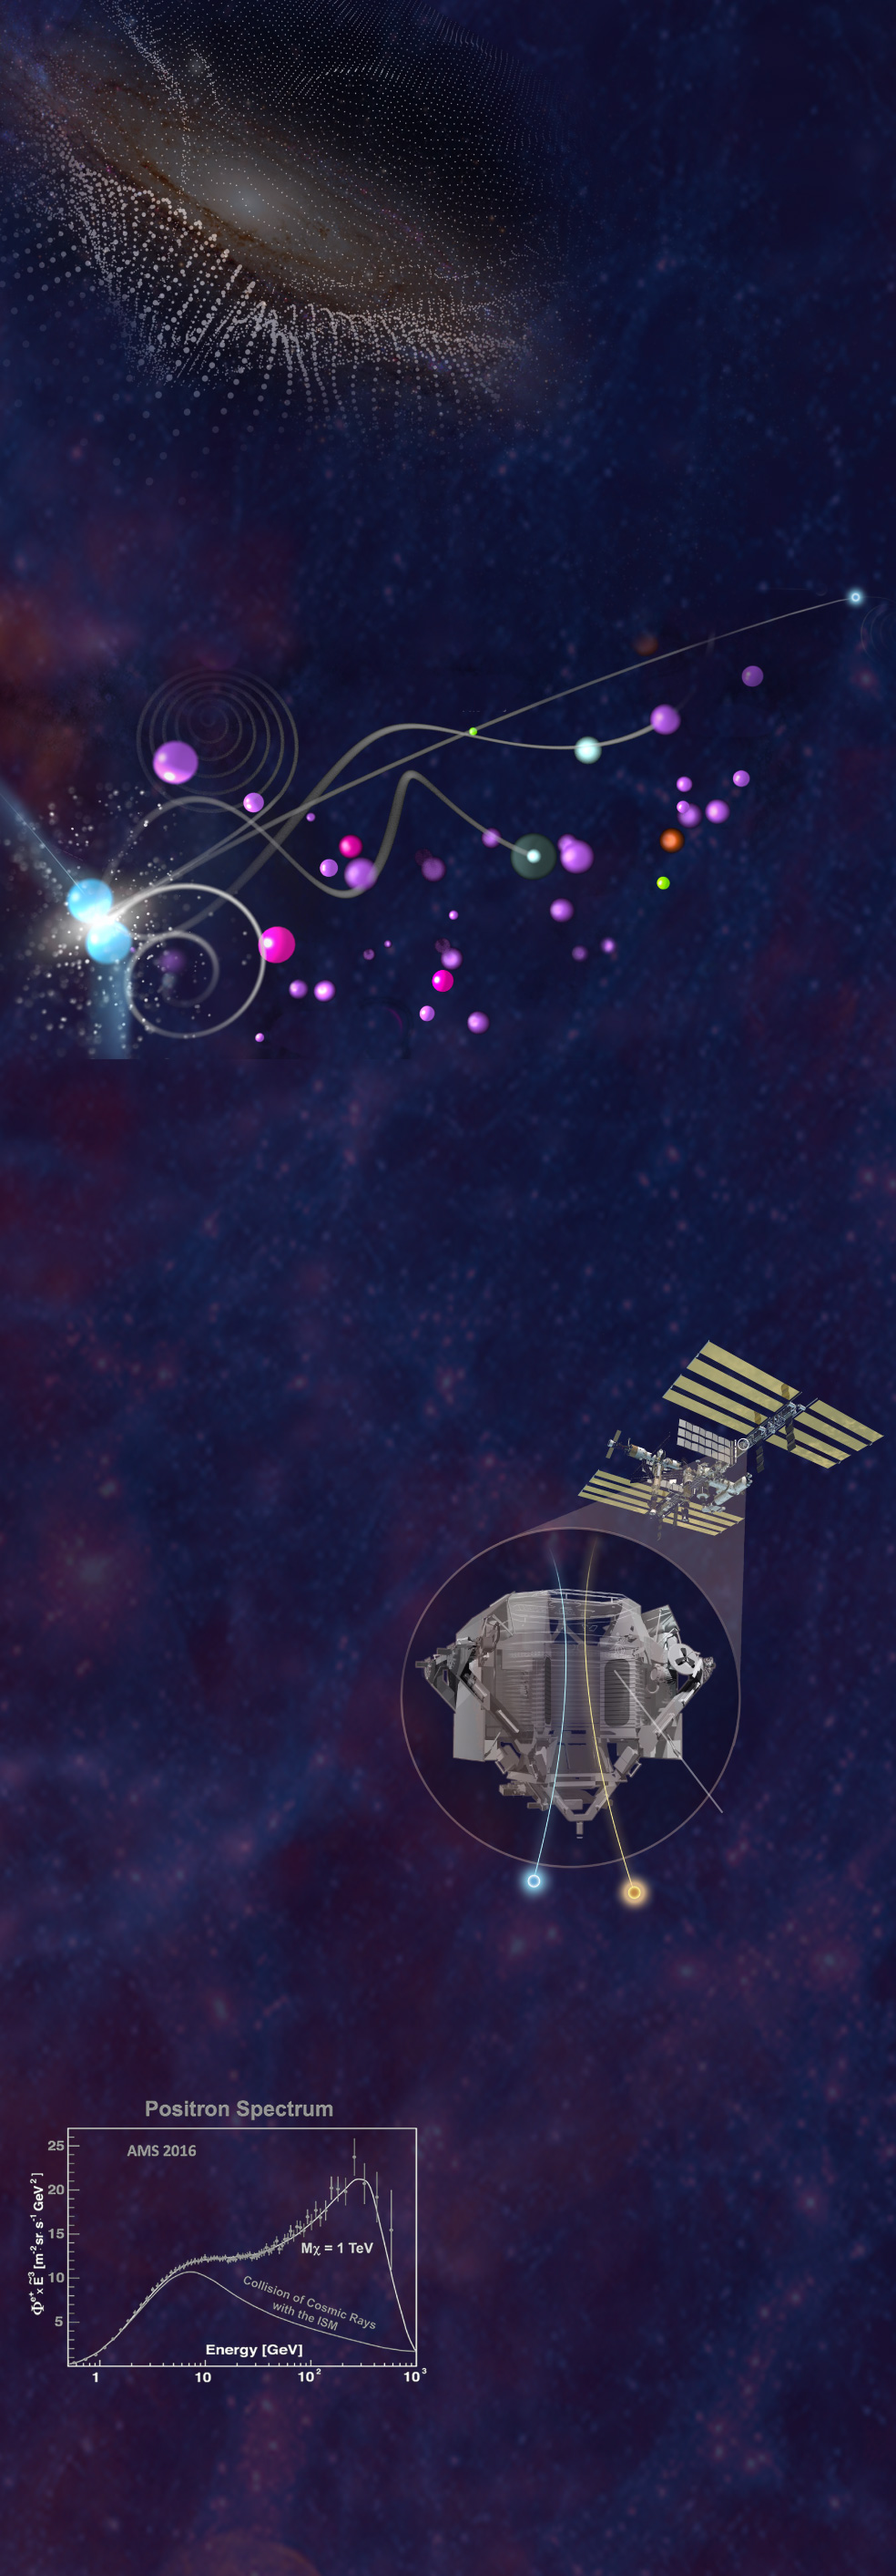
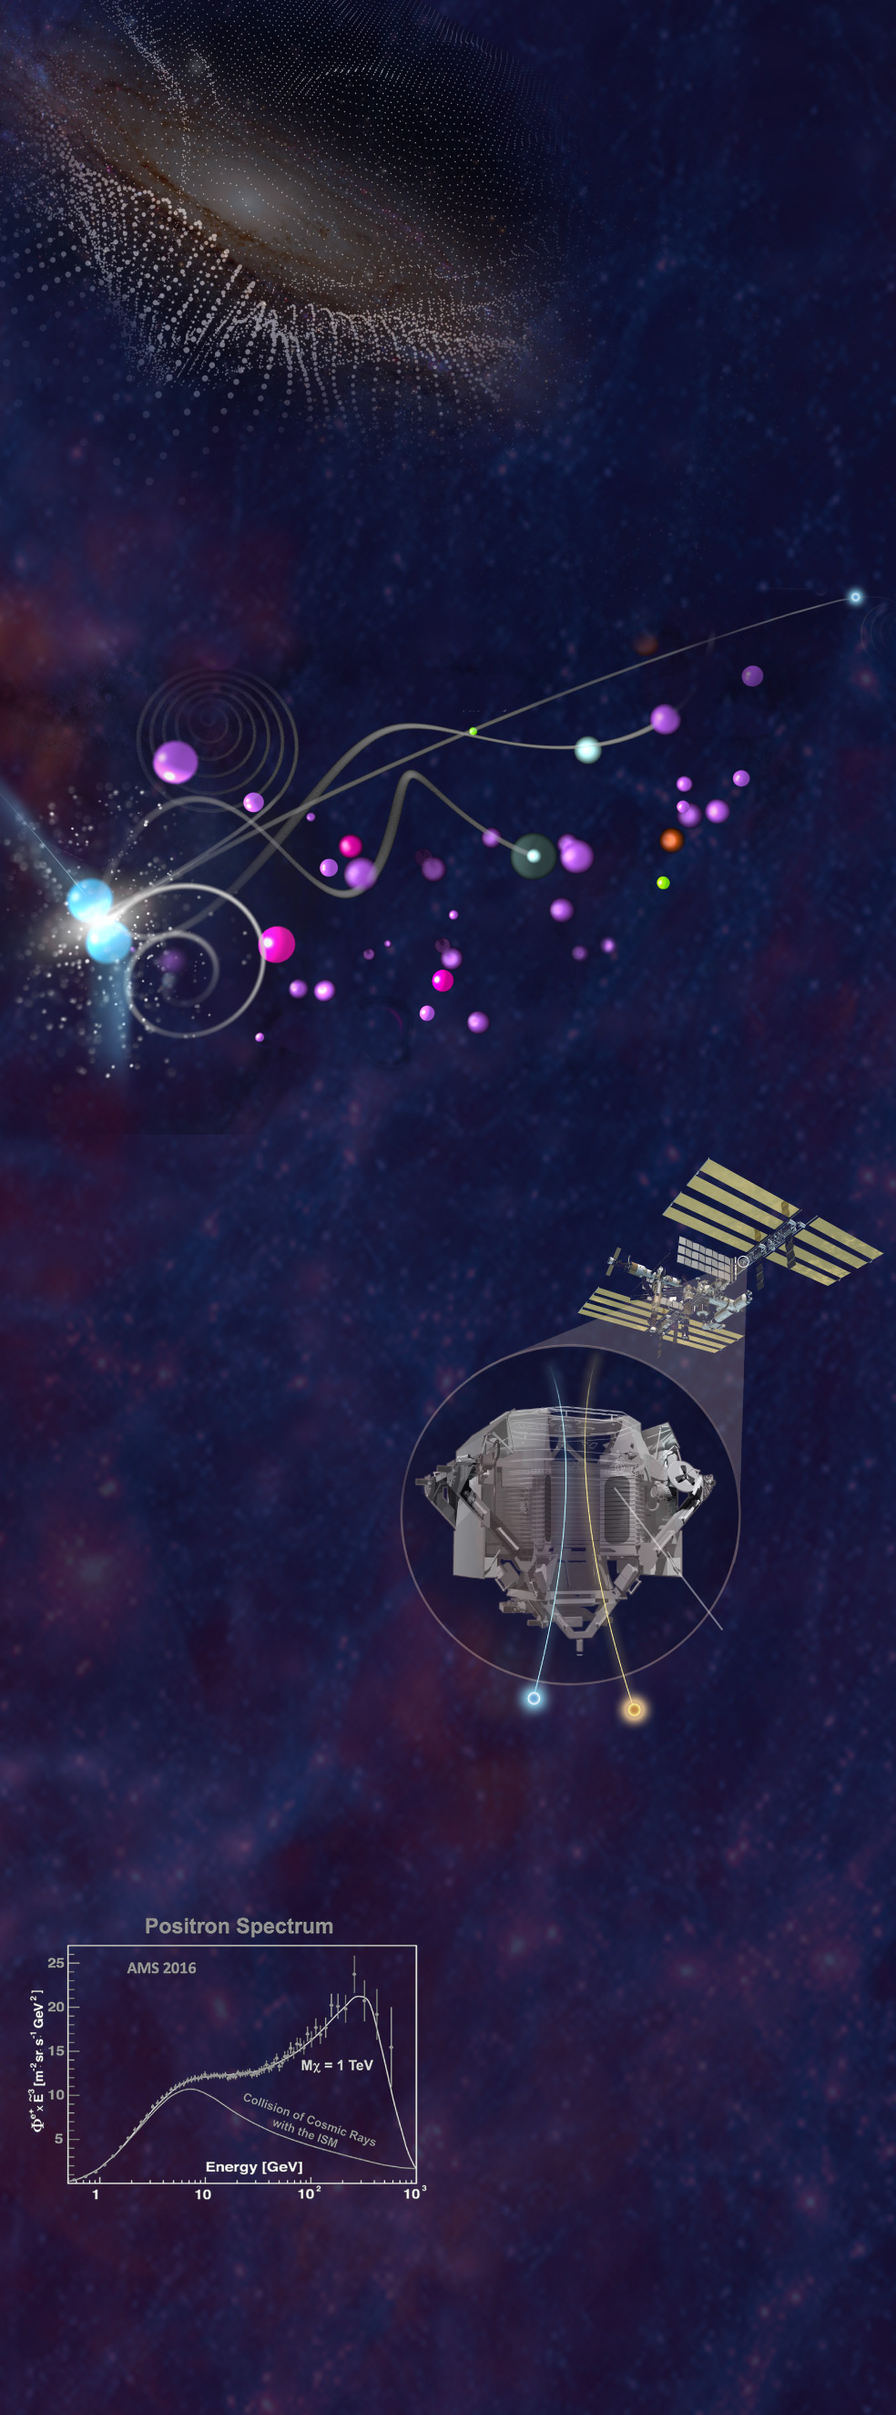
adjust mobile 492 artboard and correct typo

diff --git a/ai2html/sam-ting/embed/dark-matter-03.html b/ai2html/sam-ting/embed/dark-matter-03.html
@@ -7,7 +7,7 @@
 </head>
 
 <body>
-    <!-- Generated by ai2html v0.66.4 - 2018-02-12 15:30 -->
+    <!-- Generated by ai2html v0.66.4 - 2018-02-12 15:34 -->
     <!-- ai file: dark-matter-03.ai -->
     <style type='text/css' media='screen,print'>
     @import url('https://fonts.googleapis.com/css?family=Open+Sans:400,500,700,800');
@@ -504,55 +504,55 @@
         <!-- Artboard: mobile-492 -->
         <div id="g-dark-matter-03-mobile-492" class="g-artboard g-artboard-v4" data-min-width='492' data-max-width='618'>
             <img id="g-dark-matter-03-mobile-492-img" class="g-aiImg" src="img/dark-matter-03-mobile-492.jpg" />
-            <div id="g-ai2-1" class="g-Glow g-aiAbs" style="top:0.9199%;left:25.1204%;width:73.1707%;">
+            <div id="g-ai2-1" class="g-Glow g-aiAbs" style="top:0.981%;left:25.1204%;width:73.1707%;">
                 <p class="g-pstyle0">WHAT IS</p>
                 <p class="g-pstyle0">DARK MATTER?</p>
             </div>
-            <div id="g-ai2-2" class="g-Glow g-aiAbs" style="top:5.3073%;left:50.2407%;width:44.5122%;">
+            <div id="g-ai2-2" class="g-Glow g-aiAbs" style="top:5.6599%;left:50.2407%;width:44.5122%;">
                 <p>Galaxies are spinning too fast. At least, if you consider the amount of matter in them &ndash; there isn't enough gravity to hold them together. They should contain about five times more matter to produce that gravitational force. This is why scientists believe there is "dark" matter floating out in these galaxies, helping to hold the stars together.</p>
             </div>
-            <div id="g-ai2-3" class="g-Glow g-aiAbs" style="top:15.1436%;left:1.9816%;width:73.9837%;">
+            <div id="g-ai2-3" class="g-Glow g-aiAbs" style="top:16.1496%;left:1.9816%;width:73.9837%;">
                 <p class="g-pstyle1">DARK MATTER IS</p>
                 <p class="g-pstyle1">ITS OWN ANTIMATTER</p>
                 <p>Dark matter particles are their own antiparticles. If they bump into one another, they'll revert the energy, a process called annihilation. This energy can then become any kind of particle-antiparticle pair. Because antiparticles are rare, they can be measured to infer the presence of dark matter.</p>
             </div>
-            <div id="g-ai2-4" class="g-Glow g-aiAbs" style="top:26.8197%;left:53.4761%;margin-left:-54px;width:21.9512%;">
+            <div id="g-ai2-4" class="g-Glow g-aiAbs" style="top:28.6014%;left:53.4761%;margin-left:-54px;width:21.9512%;">
                 <p class="g-pstyle2">LOW-ENERGY</p>
                 <p class="g-pstyle2">PHOTONS</p>
             </div>
-            <div id="g-ai2-5" class="g-Glow g-aiAbs" style="top:27.7396%;left:84.0751%;margin-left:-54px;width:21.9512%;">
+            <div id="g-ai2-5" class="g-Glow g-aiAbs" style="top:29.5824%;left:84.0751%;margin-left:-54px;width:21.9512%;">
                 <p class="g-pstyle2">ANTIPROTONS</p>
             </div>
-            <div id="g-ai2-6" class="g-Glow g-aiAbs" style="top:30.4287%;left:48.3599%;margin-left:-54px;width:21.9512%;">
+            <div id="g-ai2-6" class="g-Glow g-aiAbs" style="top:32.4501%;left:48.3599%;margin-left:-54px;width:21.9512%;">
                 <p class="g-pstyle2">GAMMA RAYS</p>
             </div>
-            <div id="g-ai2-7" class="g-Glow g-aiAbs" style="top:32.0563%;left:9.7266%;margin-left:-37px;width:15.0407%;">
+            <div id="g-ai2-7" class="g-Glow g-aiAbs" style="top:34.1858%;left:9.7266%;margin-left:-37px;width:15.0407%;">
                 <p class="g-pstyle2">DARK MATTER</p>
                 <p class="g-pstyle2">PARTICLES</p>
             </div>
-            <div id="g-ai2-8" class="g-Glow g-aiAbs" style="top:32.4101%;left:81.8316%;margin-left:-54px;width:21.9512%;">
+            <div id="g-ai2-8" class="g-Glow g-aiAbs" style="top:34.5631%;left:81.8316%;margin-left:-54px;width:21.9512%;">
                 <p class="g-pstyle2">PROTONS</p>
             </div>
-            <div id="g-ai2-9" class="g-Glow g-aiAbs" style="top:34.0377%;left:81.5856%;margin-left:-54px;width:21.9512%;">
+            <div id="g-ai2-9" class="g-Glow g-aiAbs" style="top:36.2988%;left:81.5856%;margin-left:-54px;width:21.9512%;">
                 <p class="g-pstyle2">ELECTRONS</p>
             </div>
-            <div id="g-ai2-10" class="g-Glow g-aiAbs" style="top:35.0991%;left:70.4081%;margin-left:-54px;width:21.9512%;">
+            <div id="g-ai2-10" class="g-Glow g-aiAbs" style="top:37.4308%;left:70.4081%;margin-left:-54px;width:21.9512%;">
                 <p class="g-pstyle2">POSITRONS</p>
             </div>
-            <div id="g-ai2-11" class="g-Glow g-aiAbs" style="top:38.9204%;left:34.4689%;margin-left:-54px;width:21.9512%;">
+            <div id="g-ai2-11" class="g-Glow g-aiAbs" style="top:41.506%;left:34.4689%;margin-left:-54px;width:21.9512%;">
                 <p class="g-pstyle2">PARTICLES OF </p>
                 <p class="g-pstyle2">FAMILIAR MATTER</p>
             </div>
-            <div id="g-ai2-12" class="g-Glow g-aiAbs" style="top:39.4865%;left:61.2282%;margin-left:-54px;width:21.9512%;">
+            <div id="g-ai2-12" class="g-Glow g-aiAbs" style="top:42.1097%;left:61.2282%;margin-left:-54px;width:21.9512%;">
                 <p class="g-pstyle2">NEUTRINOS</p>
             </div>
-            <div id="g-ai2-13" class="g-Glow g-aiAbs" style="top:53.7102%;left:3.8619%;width:50%;">
+            <div id="g-ai2-13" class="g-Glow g-aiAbs" style="top:49.7317%;left:3.8619%;width:50%;">
                 <p class="g-pstyle1">MEASURING ANTIMATTER</p>
             </div>
-            <div id="g-ai2-14" class="g-Glow g-aiAbs" style="top:54.9839%;left:3.8619%;width:42.6829%;">
+            <div id="g-ai2-14" class="g-Glow g-aiAbs" style="top:51.0901%;left:3.8619%;width:42.6829%;">
                 <p>Ting and his colleagues are looking for antimatter, &ndash; in order to get hints about dark matter &ndash; through a particle physics detector on the International Space Station.</p>
             </div>
-            <div id="g-ai2-15" class="g-Glow g-aiAbs" style="top:57.8853%;left:83.9256%;width:13.8211%;">
+            <div id="g-ai2-15" class="g-Glow g-aiAbs" style="top:54.1841%;left:83.9256%;width:13.8211%;">
                 <p class="g-pstyle3">INTERNATIONAL SPACE STATION</p>
             </div>
             <div id="g-ai2-16" class="g-Glow g-aiAbs" style="top:NaN%;left:3.8619%;width:39.2276%;">
@@ -560,26 +560,26 @@
                 <p>The central component of the detector, called the Alpha Magnetic Spectrometer, is a large magnet. When particles pass through this detector, positively charged particles curve one way and negatively charged particles curve the other way.The scientists combine this information with a measure of the mass to determine a particle ID. Some are regular matter, such as electrons. Others are the corresponding antimatter, such as positrons.</p>
                 <p>&nbsp;</p>
             </div>
-            <div id="g-ai2-17" class="g-Glow g-aiAbs" style="top:65.0325%;left:83.9256%;width:13.8211%;">
+            <div id="g-ai2-17" class="g-Glow g-aiAbs" style="top:61.8061%;left:83.9256%;width:13.8211%;">
                 <p class="g-pstyle3">ALPHA MAGNETIC SPECTROMETER</p>
             </div>
-            <div id="g-ai2-18" class="g-Glow g-aiAbs" style="top:70.5521%;left:80.5984%;width:17.0732%;">
+            <div id="g-ai2-18" class="g-Glow g-aiAbs" style="top:67.6924%;left:80.5984%;width:17.0732%;">
                 <p class="g-pstyle4">Magnet directs the path of cosmic particles through the detectors</p>
             </div>
             <div id="g-ai2-19" class="g-Glow g-aiAbs" style="top:NaN%;left:3.8619%;width:39.2276%;">
                 <p>&nbsp;</p>
                 <p>A certain amount of antimatter is expected from cosmic ray collisions (particles that are catapulted out of exploding stars), but if dark matter particles are running into one another, we should see more.</p>
             </div>
-            <div id="g-ai2-20" class="g-Glow g-aiAbs" style="top:74.3026%;left:55.0133%;margin-left:-36px;width:14.6341%;">
+            <div id="g-ai2-20" class="g-Glow g-aiAbs" style="top:71.6921%;left:55.0133%;margin-left:-36px;width:14.6341%;">
                 <p class="g-pstyle5">Path of matter particles</p>
             </div>
-            <div id="g-ai2-21" class="g-Glow g-aiAbs" style="top:74.3026%;left:73.9995%;margin-left:-52.5px;width:21.3415%;">
+            <div id="g-ai2-21" class="g-Glow g-aiAbs" style="top:71.6921%;left:73.9995%;margin-left:-52.5px;width:21.3415%;">
                 <p class="g-pstyle5">Path of antimatter particles</p>
             </div>
-            <div id="g-ai2-22" class="g-Glow g-aiAbs" style="top:82.4405%;left:51.0762%;width:44.9187%;">
+            <div id="g-ai2-22" class="g-Glow g-aiAbs" style="top:80.3706%;left:51.0762%;width:44.9187%;">
                 <p class="g-pstyle6">SO HAS THE DETECTOR FOUND DARK MATTER?</p>
             </div>
-            <div id="g-ai2-23" class="g-Glow g-aiAbs" style="top:84.9173%;left:51.0762%;width:44.9187%;">
+            <div id="g-ai2-23" class="g-Glow g-aiAbs" style="top:83.0119%;left:51.0762%;width:44.9187%;">
                 <p>It does boast a suspicious trend in the positron spectrum &ndash; or how the frequency of positron detections changes at higher and higher momentum measurements. The curve resembles what you'd see if there were dark matter particles with masses of about 1 teraelectronvolt &ndash; roughly 1000 times more massive than a proton. But it doesn't qualify as a smoking gun &ndash; this pattern could also come from proposed physics related to exotic post-supernova stellar remnants known as pulsars. Still, by the end of the experiment in 2024, Ting is optimistic that we could have an answer.</p>
             </div>
         </div>
@@ -665,7 +665,7 @@
         <script type="text/javascript" src="../../js/resizer-script.js"></script>
         <script type="text/javascript" src="https://cdnjs.cloudflare.com/ajax/libs/iframe-resizer/3.5.16/iframeResizer.contentWindow.min.js"></script>
     </div>
-    <!-- End ai2html - 2018-02-12 15:30 -->
+    <!-- End ai2html - 2018-02-12 15:34 -->
 </body>
 
 </html>
